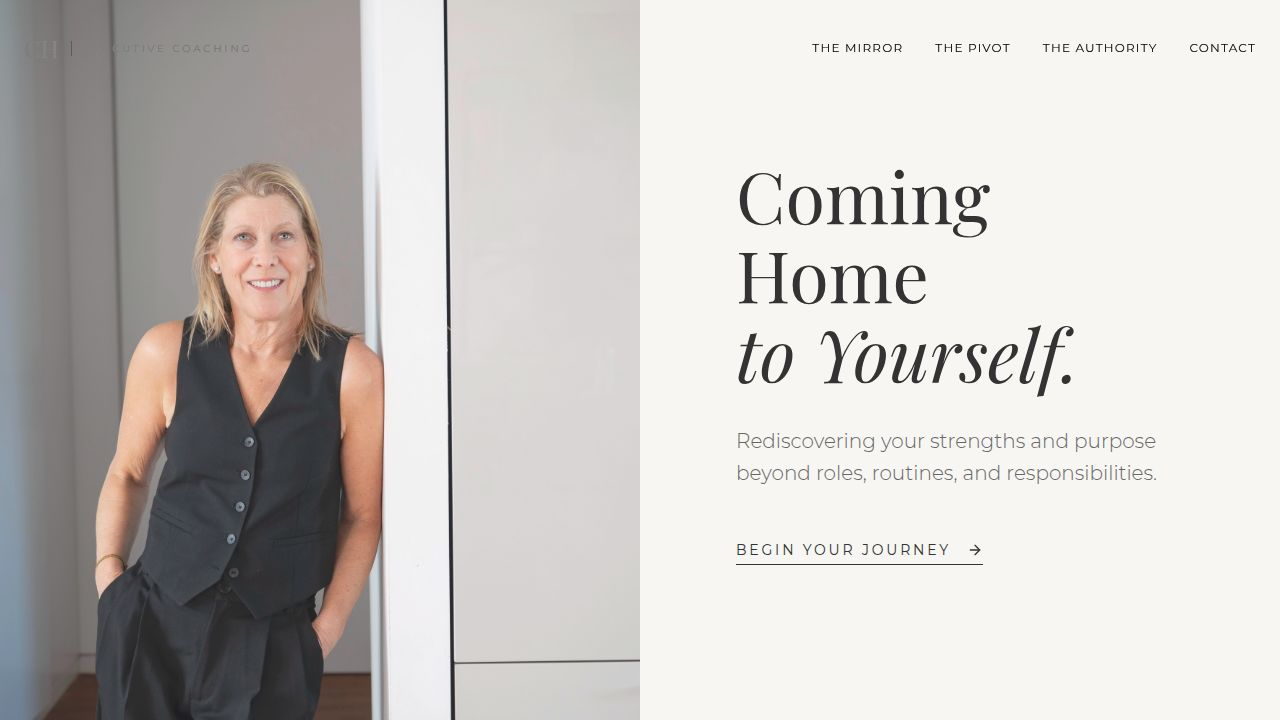
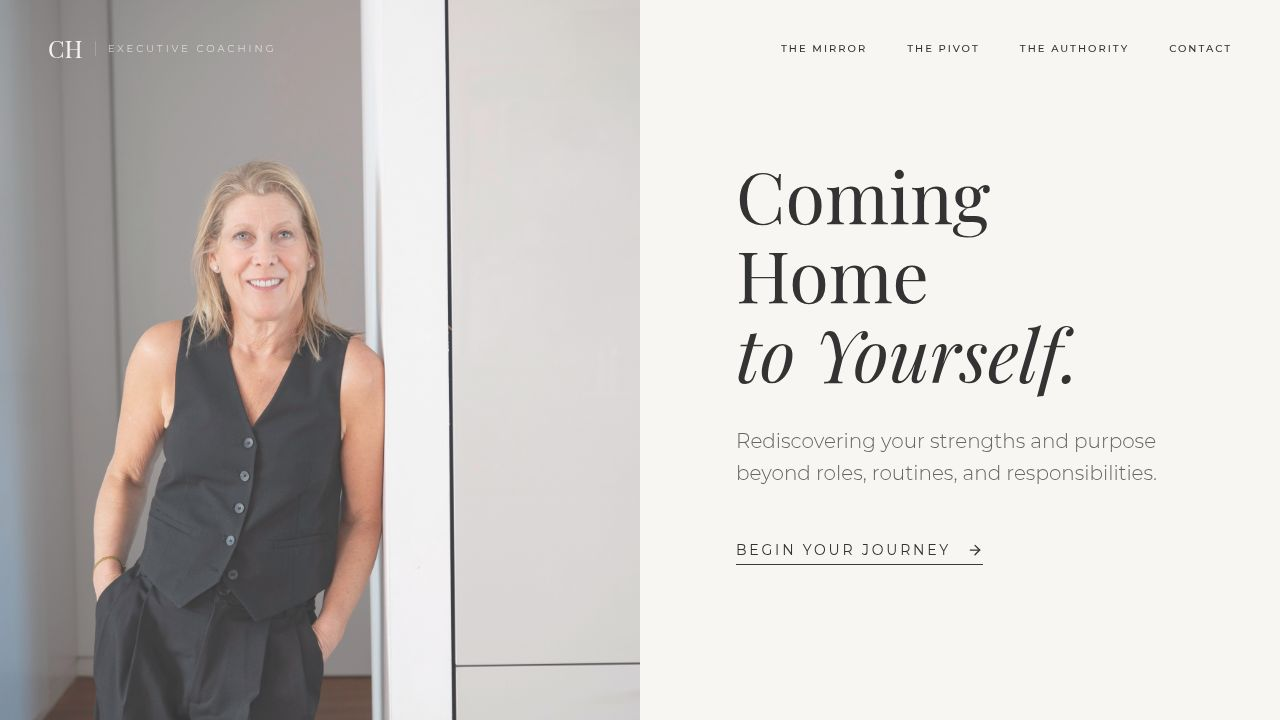
Update navigation to include a responsive scroll-based design
Implement a sticky header with dynamic background and text colors based on scroll position, and a mobile-first off-canvas menu with smooth transitions.

Replit-Commit-Author: Agent
Replit-Commit-Session-Id: 08554054-6adb-4b48-8a48-366585d4891f
Replit-Commit-Checkpoint-Type: full_checkpoint
Replit-Commit-Event-Id: 005d120b-42db-43c9-b9b9-07110118d2b2
Replit-Commit-Screenshot-Url: https://storage.googleapis.com/screenshot-production-us-central1/c2c65025-94df-431c-a1e2-0f2a33d46ea3/08554054-6adb-4b48-8a48-366585d4891f/nGdzCrV
Replit-Helium-Checkpoint-Created: true

diff --git a/client/src/pages/Home.tsx b/client/src/pages/Home.tsx
@@ -1,6 +1,7 @@
-import { motion } from "framer-motion";
+import { useState, useEffect } from "react";
+import { motion, AnimatePresence } from "framer-motion";
 import { images } from "@/lib/images";
-import { ArrowRight, Mail, Linkedin, GraduationCap, Globe, Briefcase, Heart } from "lucide-react";
+import { ArrowRight, Mail, Linkedin, GraduationCap, Globe, Briefcase, Heart, Menu, X } from "lucide-react";
 
 const FadeIn = ({ children, delay = 0, className = "" }: { children: React.ReactNode, delay?: number, className?: string }) => (
   <motion.div
@@ -14,12 +15,119 @@ const FadeIn = ({ children, delay = 0, className = "" }: { children: React.React
   </motion.div>
 );
 
-const Logo = () => (
+const Logo = ({ scrolled }: { scrolled?: boolean }) => (
   <div className="flex items-center gap-3">
-    <span className="text-2xl font-serif">CH</span>
-    <span className="text-[10px] tracking-[0.3em] uppercase font-light border-l border-primary/30 pl-3">Executive Coaching</span>
+    <span className={`text-2xl font-serif transition-colors duration-300 ${scrolled ? 'text-white' : 'text-white/90'}`}>CH</span>
+    <span className={`text-[10px] tracking-[0.3em] uppercase font-light border-l pl-3 transition-colors duration-300 ${scrolled ? 'text-white border-white/30' : 'text-white/80 border-white/20'}`}>Executive Coaching</span>
   </div>
 );
+
+const Navbar = () => {
+  const [scrolled, setScrolled] = useState(false);
+  const [mobileMenuOpen, setMobileMenuOpen] = useState(false);
+
+  useEffect(() => {
+    const handleScroll = () => {
+      setScrolled(window.scrollY > 10);
+    };
+    window.addEventListener("scroll", handleScroll);
+    return () => window.removeEventListener("scroll", handleScroll);
+  }, []);
+
+  const navLinks = [
+    { name: "The Mirror", href: "#narrative" },
+    { name: "The Pivot", href: "#methodology" },
+    { name: "The Authority", href: "#authority" },
+    { name: "Contact", href: "#contact" },
+  ];
+
+  return (
+    <>
+      <nav 
+        className={`fixed top-0 left-0 w-full z-50 px-6 py-6 lg:px-12 transition-all duration-300 ease-in-out ${
+          scrolled ? "bg-primary shadow-lg py-4" : "bg-transparent py-8"
+        }`}
+      >
+        <div className="max-w-7xl mx-auto flex justify-between items-center">
+          <div className="relative z-50">
+            <Logo scrolled={scrolled} />
+          </div>
+
+          {/* Desktop Nav */}
+          <div className="hidden md:flex gap-10 text-[10px] tracking-[0.2em] uppercase font-medium">
+            {navLinks.map((link) => (
+              <a 
+                key={link.name}
+                href={link.href} 
+                className={`transition-colors duration-300 hover:opacity-70 ${
+                  scrolled ? "text-white" : "text-foreground"
+                }`}
+              >
+                {link.name}
+              </a>
+            ))}
+          </div>
+
+          {/* Mobile Toggle */}
+          <button 
+            onClick={() => setMobileMenuOpen(!mobileMenuOpen)}
+            className="md:hidden relative z-50 p-2 transition-colors duration-300"
+            aria-label="Toggle Menu"
+          >
+            {mobileMenuOpen ? (
+              <X className="w-6 h-6 text-white" />
+            ) : (
+              <Menu className={`w-6 h-6 transition-colors duration-300 ${scrolled ? "text-white" : "text-foreground"}`} />
+            )}
+          </button>
+        </div>
+      </nav>
+
+      {/* Mobile Menu Overlay */}
+      <AnimatePresence>
+        {mobileMenuOpen && (
+          <motion.div
+            initial={{ opacity: 0, x: "100%" }}
+            animate={{ opacity: 1, x: 0 }}
+            exit={{ opacity: 0, x: "100%" }}
+            transition={{ type: "spring", damping: 25, stiffness: 200 }}
+            className="fixed inset-0 z-40 bg-primary flex flex-col justify-center items-center p-12"
+          >
+            <div className="flex flex-col gap-12 text-center">
+              {navLinks.map((link, i) => (
+                <motion.a
+                  key={link.name}
+                  href={link.href}
+                  initial={{ opacity: 0, y: 20 }}
+                  animate={{ opacity: 1, y: 0 }}
+                  transition={{ delay: 0.1 * i }}
+                  onClick={() => setMobileMenuOpen(false)}
+                  className="text-2xl text-white font-serif italic tracking-wide hover:opacity-70 transition-opacity"
+                >
+                  {link.name}
+                </motion.a>
+              ))}
+            </div>
+            
+            <motion.div 
+              initial={{ opacity: 0 }}
+              animate={{ opacity: 1 }}
+              transition={{ delay: 0.5 }}
+              className="absolute bottom-12 flex gap-8"
+            >
+              <a href="mailto:contact@chantalhammer.com" className="text-white/60 hover:text-white transition-colors">
+                <Mail className="w-6 h-6" />
+              </a>
+              <a href="https://linkedin.com" target="_blank" rel="noopener noreferrer" className="text-white/60 hover:text-white transition-colors">
+                <Linkedin className="w-6 h-6" />
+              </a>
+            </motion.div>
+          </motion.div>
+        )}
+      </AnimatePresence>
+    </>
+  );
+};
 
 const TrustBar = () => {
   const items = [
@@ -53,18 +161,7 @@ export default function Home() {
   return (
     <div className="min-h-screen w-full overflow-x-hidden selection:bg-primary/20">
       
-      {/* Navigation (Simple) */}
-      <nav className="fixed top-0 left-0 w-full z-50 px-6 py-8 flex justify-between items-center mix-blend-difference text-primary-foreground pointer-events-none">
-        <div className="pointer-events-auto">
-          <Logo />
-        </div>
-        <div className="hidden md:flex gap-8 text-xs tracking-widest uppercase pointer-events-auto">
-          <a href="#narrative" className="hover:opacity-70 transition-opacity">The Mirror</a>
-          <a href="#methodology" className="hover:opacity-70 transition-opacity">The Pivot</a>
-          <a href="#authority" className="hover:opacity-70 transition-opacity">The Authority</a>
-          <a href="#contact" className="hover:opacity-70 transition-opacity">Contact</a>
-        </div>
-      </nav>
+      <Navbar />
 
       {/* 1. Hero Section */}
       <section className="min-h-screen grid grid-cols-1 lg:grid-cols-2">
@@ -198,6 +295,17 @@ export default function Home() {
                     <span className="text-xs uppercase tracking-widest text-muted-foreground">Former Leadership</span>
                   </div>
                 </div>
+                
+                <div className="mt-12 grid grid-cols-2 gap-8 border-t border-primary/20 pt-8">
+                  <div>
+                    <span className="block text-3xl font-serif mb-2">INSEAD</span>
+                    <span className="text-xs uppercase tracking-widest text-muted-foreground">Executive Coach</span>
+                  </div>
+                  <div>
+                    <span className="block text-3xl font-serif mb-2">4 Sons</span>
+                    <span className="text-xs uppercase tracking-widest text-muted-foreground">Resilience & Empathy Expert</span>
+                  </div>
+                </div>
               </FadeIn>
             </div>
           </div>
@@ -205,8 +313,8 @@ export default function Home() {
       </section>
 
       {/* Trust Bar Section */}
-      <TrustBar />
-
+      {/* <TrustBar /> */}
+      
       {/* 5. Contact Section */}
       <section id="contact" className="py-32 lg:py-40 px-6 bg-background">
         <div className="max-w-2xl mx-auto text-center">
